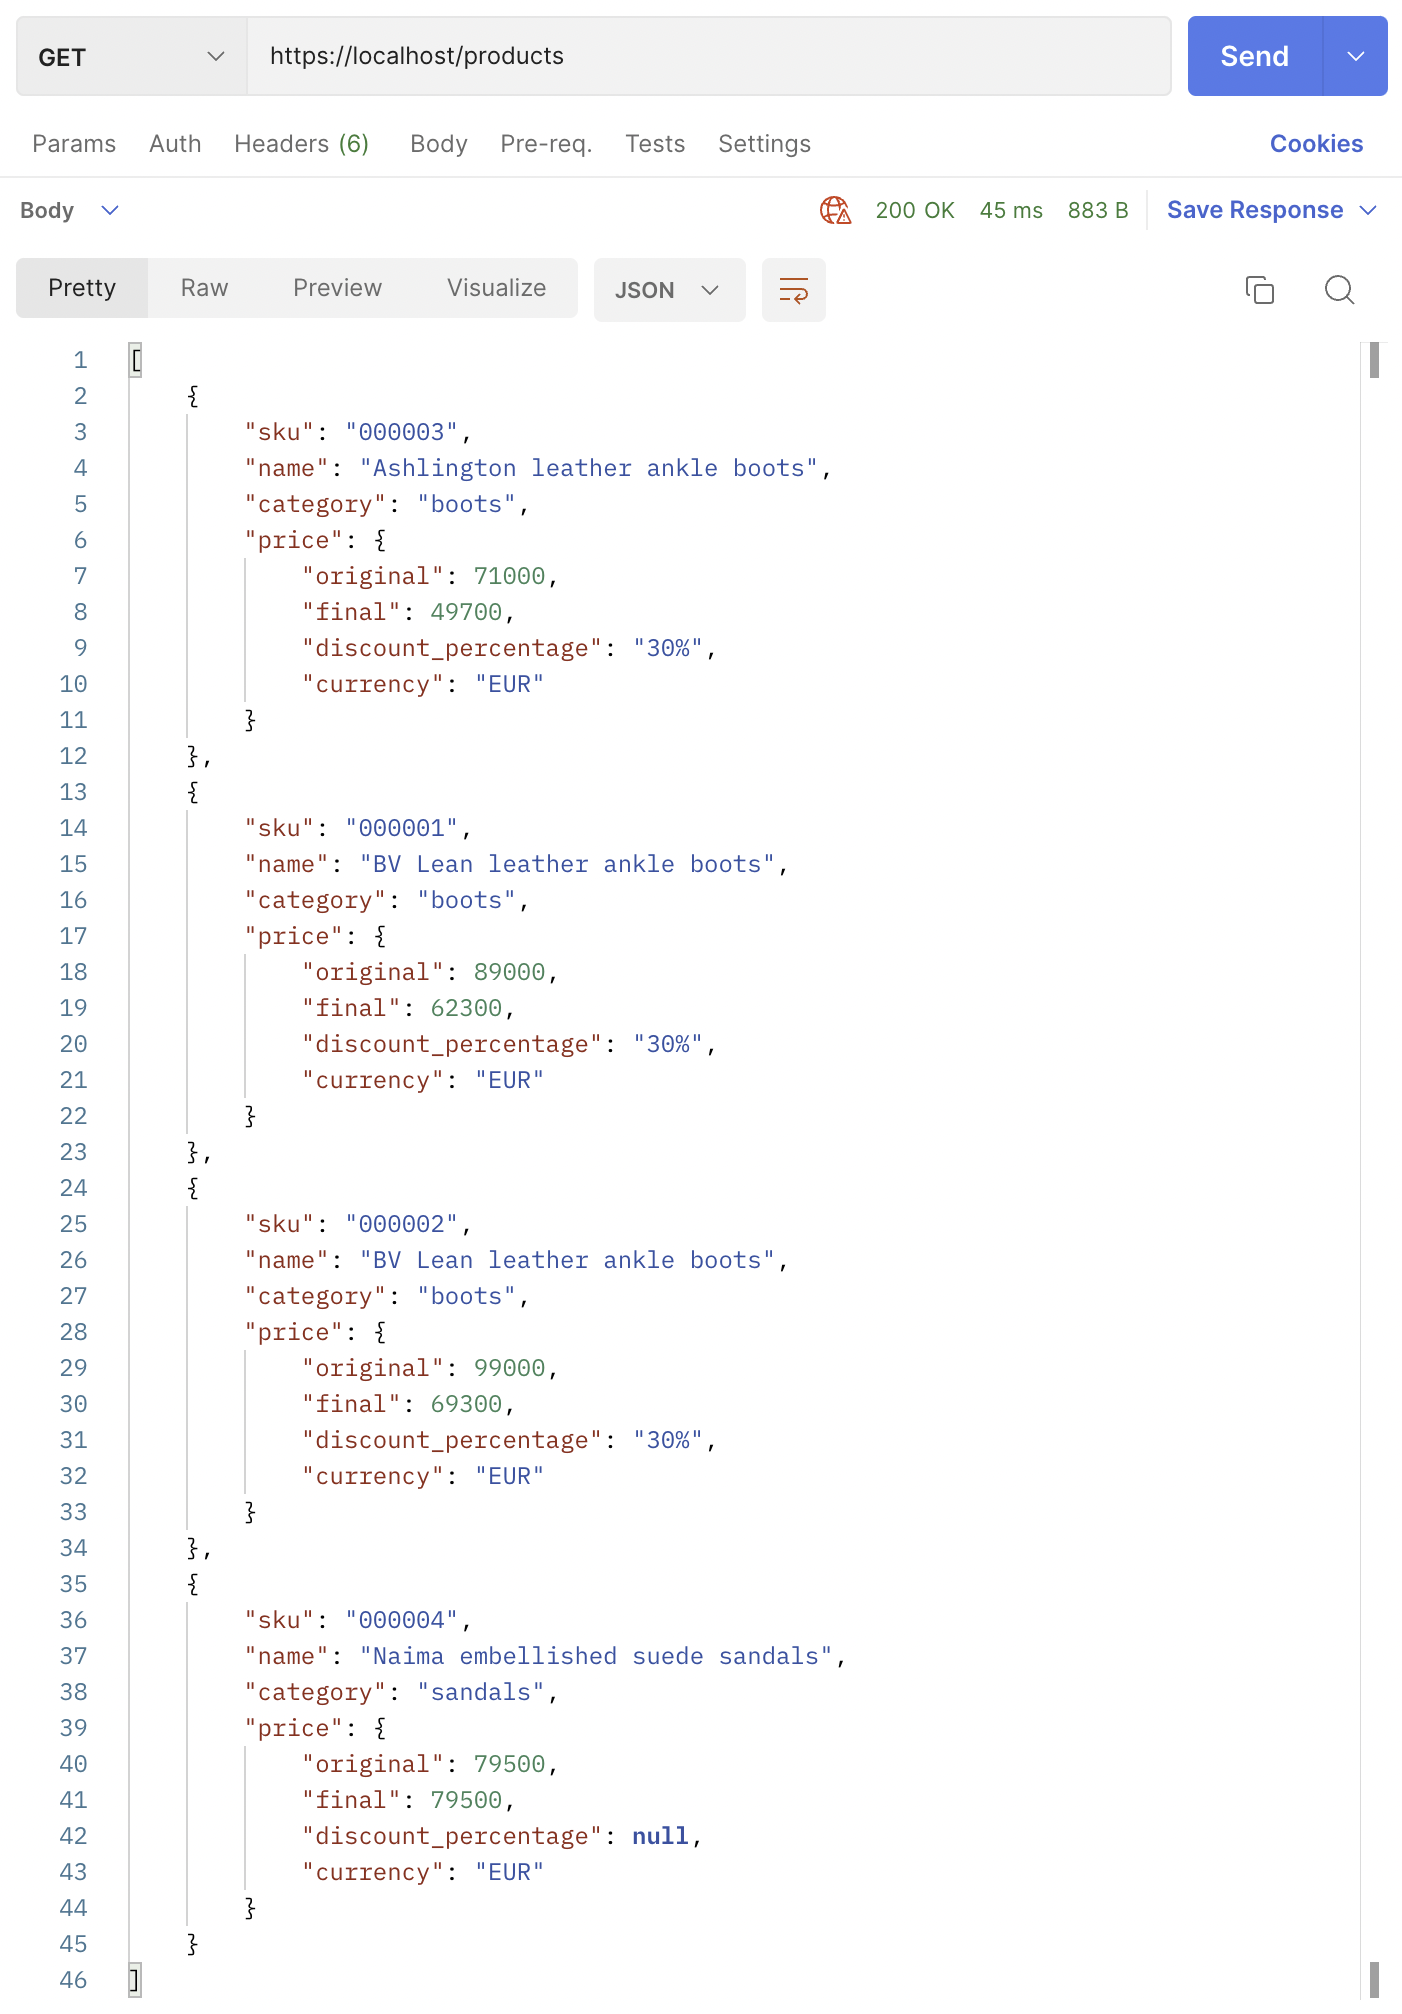
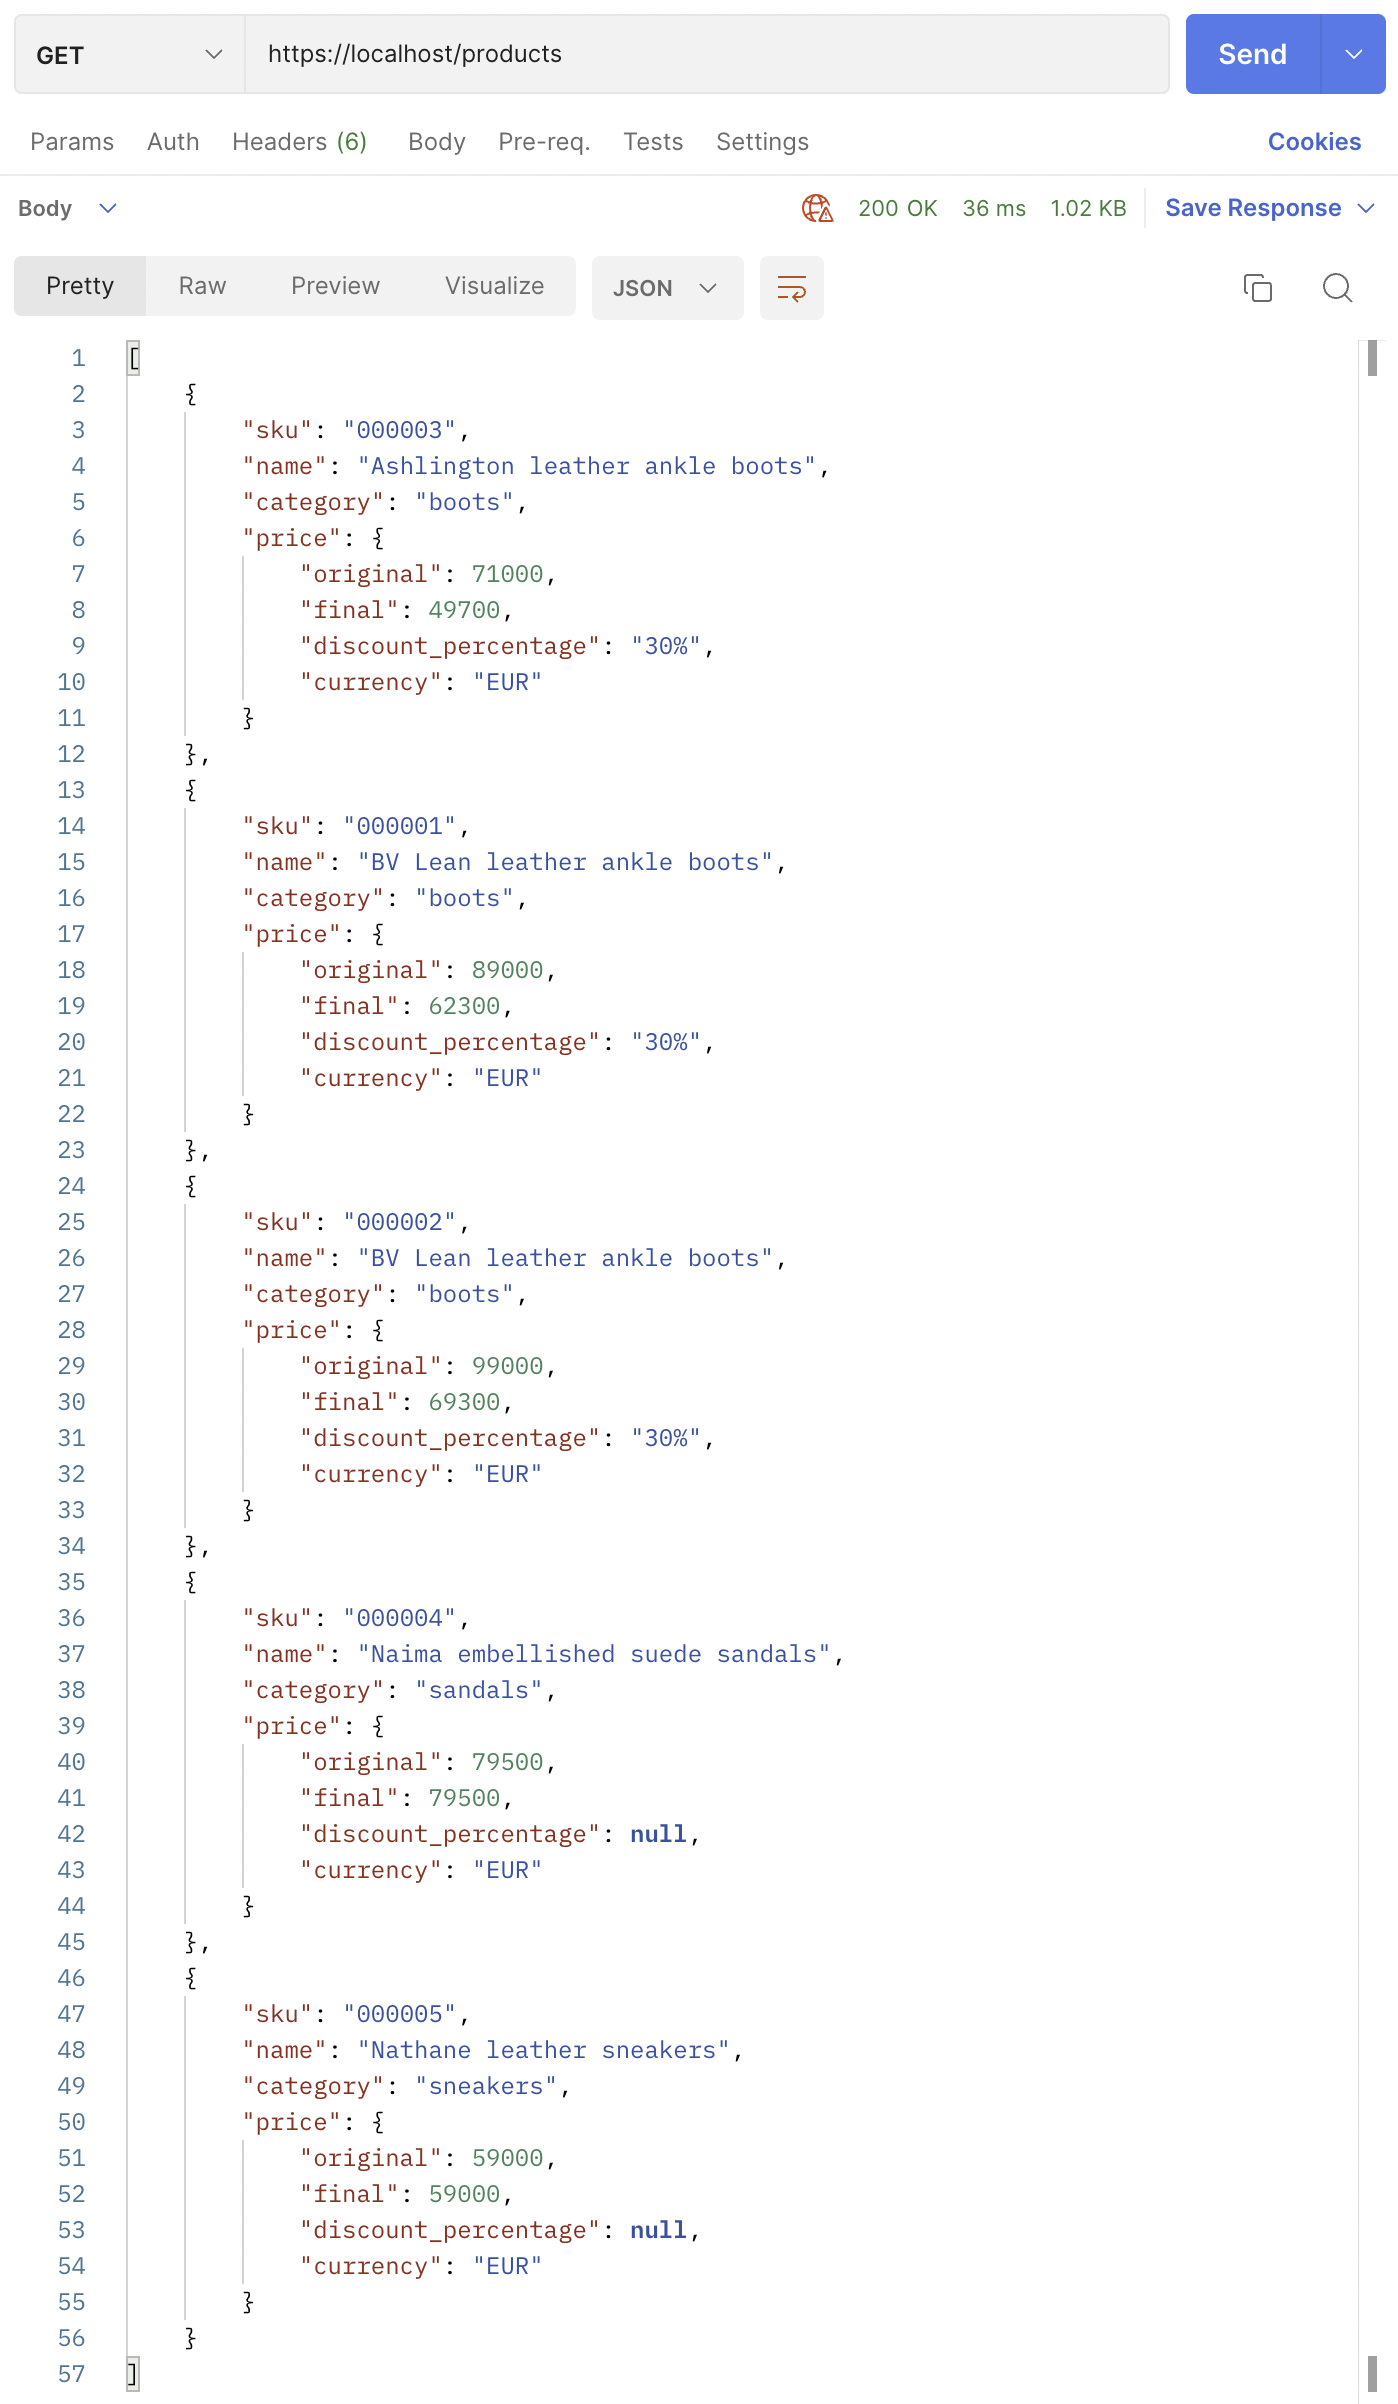
Updated with missing product (sneakers)

diff --git a/tests/Controller/ProductControllerTest.php b/tests/Controller/ProductControllerTest.php
@@ -28,7 +28,7 @@ class ProductControllerTest extends WebTestCase
         $expected = json_decode($this->client->getResponse()->getContent(), true);
         $this->assertResponseIsSuccessful();
         $this->assertCount(
-            4,
+            5,
             $expected,
             'Filter not applied, returns all products.'
         );
@@ -60,9 +60,9 @@ class ProductControllerTest extends WebTestCase
         $expected = json_decode($this->client->getResponse()->getContent(), true);
         $this->assertResponseIsSuccessful();
         $this->assertCount(
-            2,
+            3,
             $expected,
-            'Filter priceLessThan:80000, returns 2 products.'
+            'Filter priceLessThan:80000, returns 3 products.'
         );
     }
 

diff --git a/src/DataFixtures/ProductFixtures.php b/src/DataFixtures/ProductFixtures.php
@@ -47,6 +47,13 @@ class ProductFixtures extends Fixture
             79500
         ));
 
+        $manager->persist(new Product(
+            '000005',
+            'Nathane leather sneakers',
+            Product::CATEGORY_SNEAKERS,
+            59000
+        ));
+
         $manager->flush();
     }
 }

diff --git a/src/Entity/Product.php b/src/Entity/Product.php
@@ -10,6 +10,7 @@ class Product
 {
     const CATEGORY_BOOTS = 'boots';
     const CATEGORY_SANDALS = 'sandals';
+    const CATEGORY_SNEAKERS = 'sneakers';
     const CURRENCY_EUR = 'EUR';
 
     #[ORM\Id]
